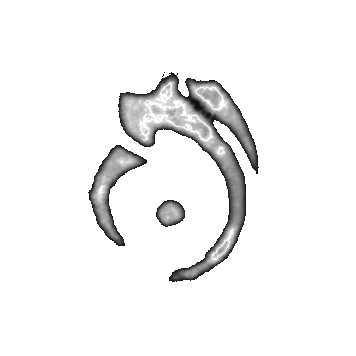
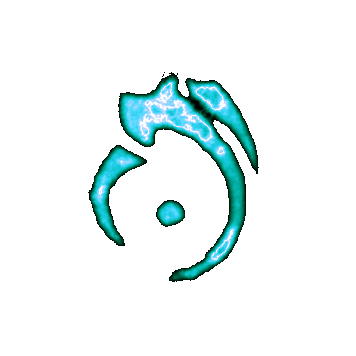
rune tier changes

Changed region(s): [[0.2472, 0.1854, 0.7416, 0.8034], [0.4326, 0.5562, 0.5253, 0.6489]]

diff --git a/TowerDefence.js b/TowerDefence.js
@@ -31,6 +31,7 @@ function Game(eCanvas, ePlayer, eHex) {
     this.ePlayer = ePlayer;
     this.eHex = eHex;
     this.player = new Player;
+    this.slow = 1;
     this.runeTypes = ["dam", "as", "cc", "cd", "range", "gold", "chain", "slow", "split"];
 }
 Game.prototype.init = function() {
@@ -64,8 +65,8 @@ Game.prototype.setValues = function() {
     var totalDamage = dam * (cc * (100 + cd) / 10000) + dam * ((100 - cc) / 100);
     this.damage = Math.round(totalDamage * 100) / 100;
     this.as = Math.round(this.player.as * ((100 + this.board.as) / 100) * 100) / 100;
-    this.cc = this.player.cc + this.board.cc;
-    this.cd = this.player.cd + this.board.cd;
+    this.cc = Math.round((this.player.cc + this.board.cc) * 100) / 100;
+    this.cd = Math.round((this.player.cd + this.board.cd) * 100) / 100;
     this.dps = Math.round(this.damage * this.as * 100) / 100;
 };
 Game.prototype.showPlayer = function() {
@@ -130,30 +131,32 @@ Game.prototype.showHex = function(hex) {
     if (hex.rune === "") {
         var eDamage = $('<button type="button" id="damButton">Dam</button>');
         var eAs = $('<button type="button" id="asButton">AS</button>');
+        var eRange = $('<button type="button" id="rangeButton">Range</button>');
         var eCc = $('<button type="button" id="ccButton">CC</button>');
         var eCd = $('<button type="button" id="cdButton">CD</button>');
-        var eRange = $('<button type="button" id="rangeButton">Range</button>');
+        var eGold = $('<button type="button" id="goldButton">Gold</button>');
+        var eChain = $('<button type="button" id="chainButton">Chain</button>');
+        var eSlow = $('<button type="button" id="slowButton">Slow</button>');   
+        var eSplit = $('<button type="button" id="splitButton">Split</button>');
+        
         if (me.player.gold >= 100) {
             me.eHex.append(eDamage).append(eAs).append(eRange);
         }
         if (me.player.gold >= 150) {
-            me.eHex.append(eCc).append(eCd);
+            me.eHex.append(eCc).append(eCd).append(eGold);
         }
-        $(eDamage).click(function() {
-            me.runeBuy(0, hex);
-        });
-        $(eAs).click(function() {
-            me.runeBuy(1, hex);
-        });
-        $(eCc).click(function() {
-            me.runeBuy(2, hex);
-        });
-        $(eCd).click(function() {
-            me.runeBuy(3, hex);
-        });
-        $(eRange).click(function() {
-            me.runeBuy(4, hex);
-        });
+        if (me.player.gold >= 250) {
+            me.eHex.append(eChain).append(eSlow).append(eSplit);
+        }
+        $(eDamage).click(function() { me.runeBuy(0, hex); });
+        $(eAs).click(function() { me.runeBuy(1, hex); });
+        $(eCc).click(function() { me.runeBuy(2, hex); });
+        $(eCd).click(function() { me.runeBuy(3, hex); });
+        $(eRange).click(function() { me.runeBuy(4, hex); });
+        $(eGold).click(function() { me.runeBuy(5, hex); });
+        $(eChain).click(function() { me.runeBuy(6, hex); });
+        $(eSlow).click(function() { me.runeBuy(7, hex); });
+        $(eSplit).click(function() { me.runeBuy(8, hex); });
     }
     else if (hex.rune !== "heart") {
         var eSell = $('<button type="button" id="sellButton">Sell</button>');
@@ -162,18 +165,19 @@ Game.prototype.showHex = function(hex) {
         $(eSell).click(function() {
             me.runeSell(hex);
         });
-        if (hex.tier < 4) {
+        if (hex.tier < 4 && hex.runeSet < 6) {
             me.eHex.append(eUpgrade);
-            $(eUpgrade).click(function() {
-                me.runeUpgrade(hex);
-            });
+            $(eUpgrade).click(function() { me.runeUpgrade(hex); });
         }
     }
 };
 Game.prototype.runeBuy = function(rune, hex) {
     hex.rune = this.runeTypes[rune];
     hex.runeSet = rune;
-    if (this.board.hexCheckConnected(hex)) { hex.heartConnected = true; }
+    if (this.board.hexCheckConnected(hex)) {
+        hex.tier = 1;
+        hex.heartConnected = true;
+    }
     this.board.hexCheckDisconnected(hex);
     this.board.runeRemove();
     this.board.hexConnect();
@@ -196,7 +200,7 @@ Game.prototype.runeSell = function(hex) {
 
     hex.runeSet = null;
     hex.rune = "";
-    hex.tier = 1;
+    hex.tier = 0;
     hex.dam = 0;
     hex.as = 0;
     hex.cc = 0;
@@ -205,7 +209,7 @@ Game.prototype.runeSell = function(hex) {
     hex.element.setAttribute("fill", "black");
     
     for (var i = 0; i < this.board.hexes.length; i++) {
-        if (this.board.hexes[i].rune !== "") {
+        if (this.board.hexes[i].rune !== "" && this.board.hexes[i].rune !== "heart") {
             if (this.board.hexCheckConnected(this.board.hexes[i])) {
                 this.board.hexes[i].heartConnected = true;
             }
@@ -548,10 +552,15 @@ Hex.prototype.pattern = function() {
     this.pattern.setAttribute("width", this.side * 3.6);
     this.pattern.setAttribute("height", this.side * 3.6);
 
+    var tier = this.tier;
+    if (this.heartConnected === false) {
+        tier = 0;
+    }
+
     var iRune = document.createElementNS('http://www.w3.org/2000/svg', 'image');
     iRune.setAttribute("width", this.side * 3.6);
     iRune.setAttribute("height", this.side * 3.6);
-    iRune.setAttributeNS('http://www.w3.org/1999/xlink', 'href', 'images/rune-' + this.rune + this.tier + '.png');
+    iRune.setAttributeNS('http://www.w3.org/1999/xlink', 'href', 'images/rune-' + this.rune + tier + '.png');
     this.pattern.appendChild(iRune);
     
     if (this.connections.length > 0 || this.rune === "heart") {
